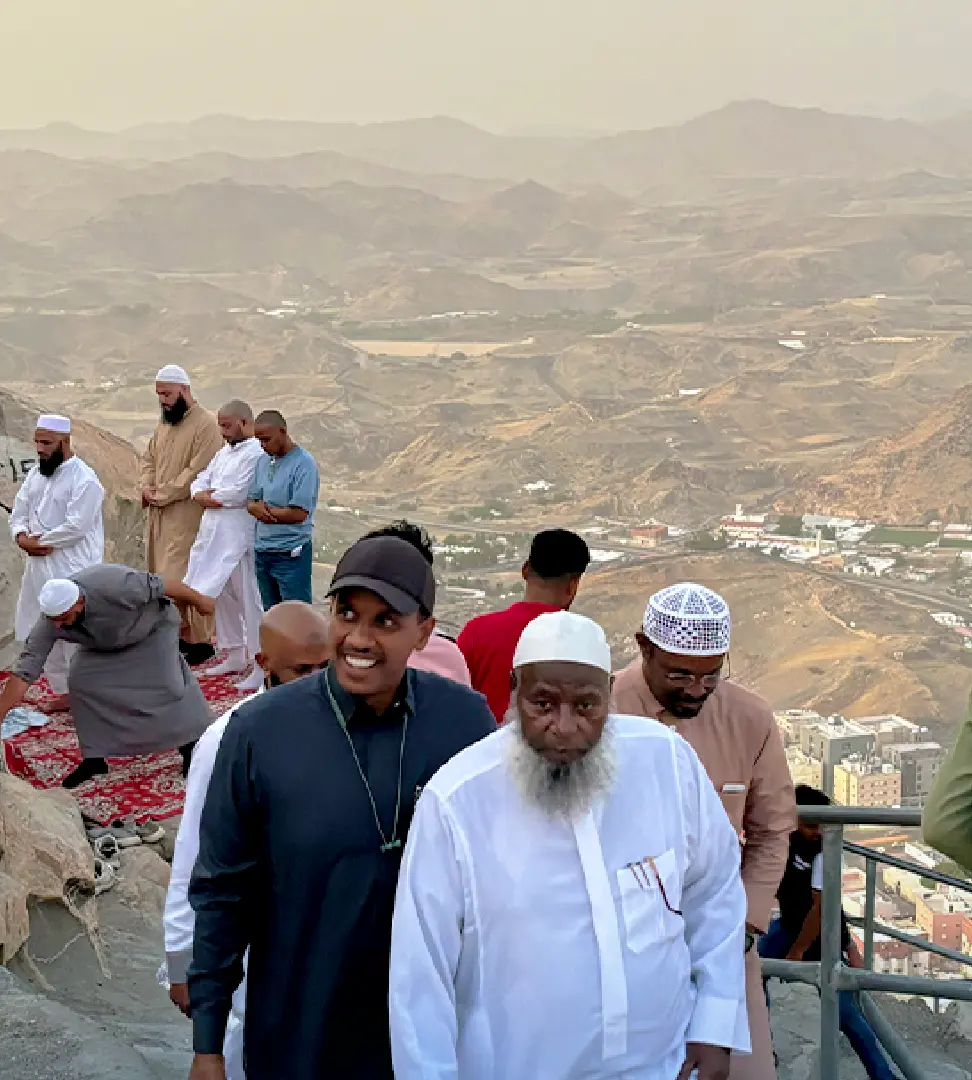
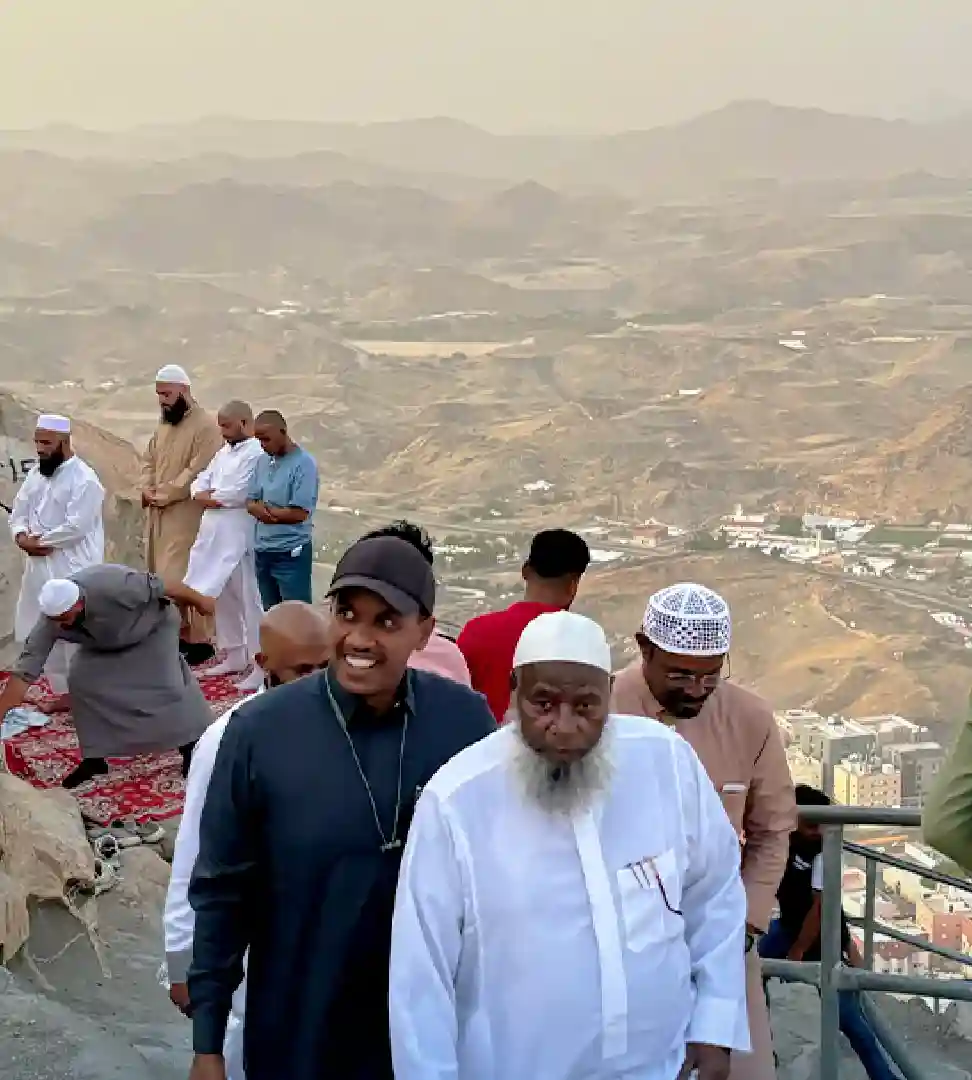
make images smaller

diff --git a/src/components/home/GenSection.jsx b/src/components/home/GenSection.jsx
@@ -2,7 +2,7 @@
 import Link from 'next/link'; // Importing the Link component for navigation within the app
 import React, { useEffect, useState } from 'react'; // Importing React to use JSX and create the component
 import img from '/public/start.webp'; // Importing the image for the section (e.g., a logo or background image)
-import bg from '/public/bg.png'; // Importing the background image for the section
+// import bg from '/public/bg.webp'; // Importing the background image for the section
 import Image from 'next/image'; // Importing the Image component for optimized image rendering
 import { motion } from 'framer-motion'; // Importing the motion component from Framer Motion for animations
 
@@ -20,7 +20,7 @@ export default function GenSection() {
     }, []); 
     return (
         // The parent div with a background image and no-repeat style
-        <div style={{ backgroundImage: `url(${bg.src})`, backgroundRepeat: 'no-repeat' }} className=''>
+        <div  className=''>
             <div className="genGeb"> {/* Wrapper for the section content */}
                 <div className="container m-auto genSection "> {/* Main container for the section content */}
 

diff --git a/src/app/book/page-old.jsx b/src/app/book/page-old.jsx
@@ -1,6 +1,6 @@
 'use client'
 import React, { useState } from 'react';
-import bg from '/public/bg.png';
+import bg from '/public/bg.webp';
 import MazarInfo from '../../components/book/MazarInfo';
 import FormPage from '../../components/book/FormPage';
 import { useRouter } from 'next/navigation';

diff --git a/src/app/book-path/page.jsx b/src/app/book-path/page.jsx
@@ -1,7 +1,7 @@
 import React from "react";
 import FormsWrapperNew from "../../components/book/FormsWrapperNew";
 import FormsWrapper from "../../components/book/FormsWrapper";
-import bg from "/public/bg.png";
+
 
 export default function Book() {
 	return (
